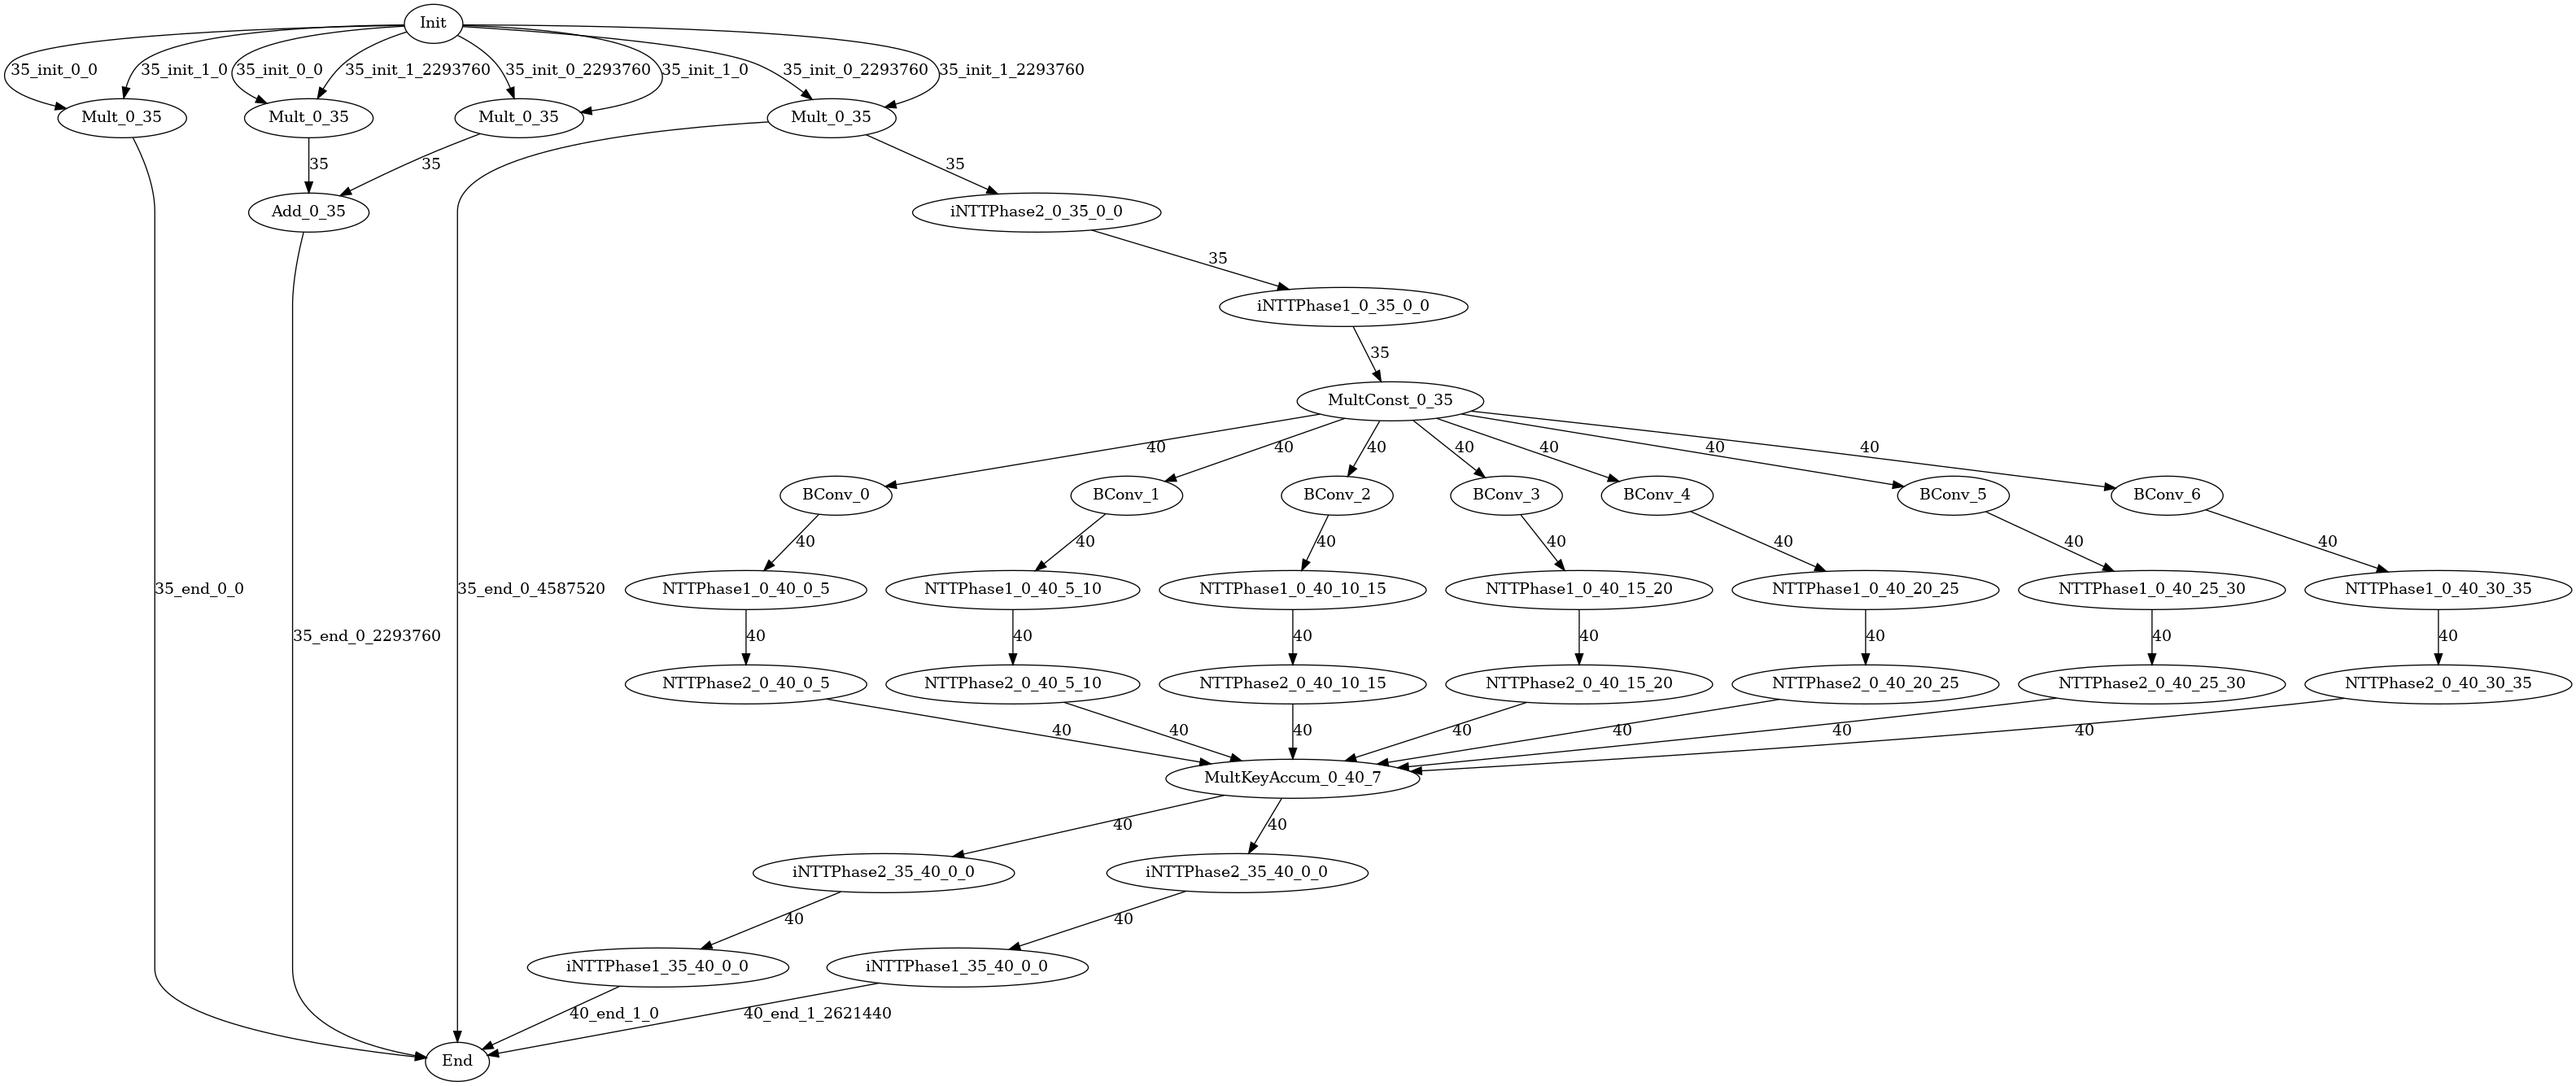
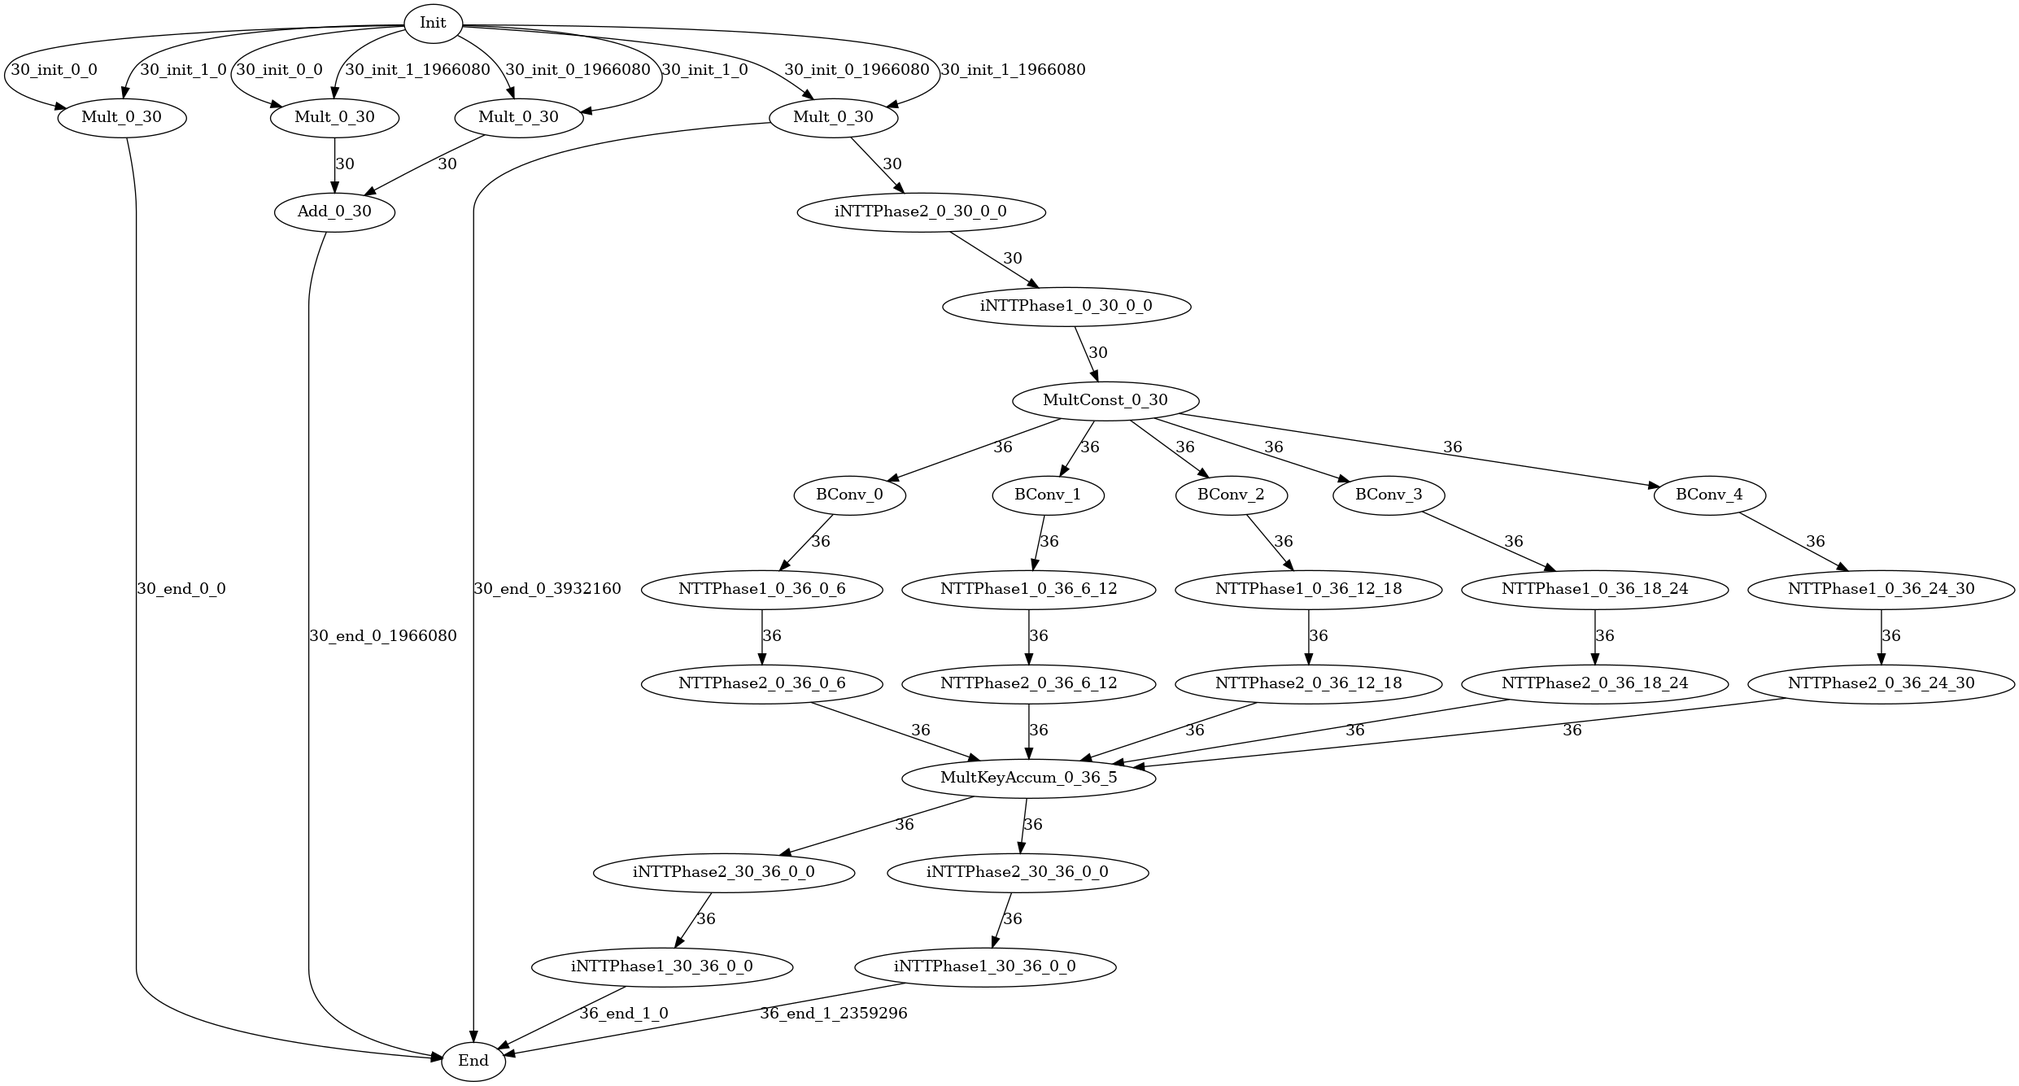
change number of limb to divde L

diff --git a/example/ckks_HMult/example.py b/example/ckks_HMult/example.py
@@ -2,9 +2,10 @@ from pypolyfhe import PolyFHE, Params
 import os
 
 pf = PolyFHE()
-# prm = Params(N=2**15, L=18, dnum=6)
-# prm = Params(N=2**16, L=30, dnum=5)
-prm = Params(N=2**16, L=35, dnum=7)
+# prm = Params(N=2**15, L=15, dnum=5)
+prm = Params(N=2**16, L=30, dnum=5)
+# prm = Params(N=2**16, L=35, dnum=7) 
+# prm = Params(N=2**14, L=6, dnum=3)
 print(prm)
 
 target = []
